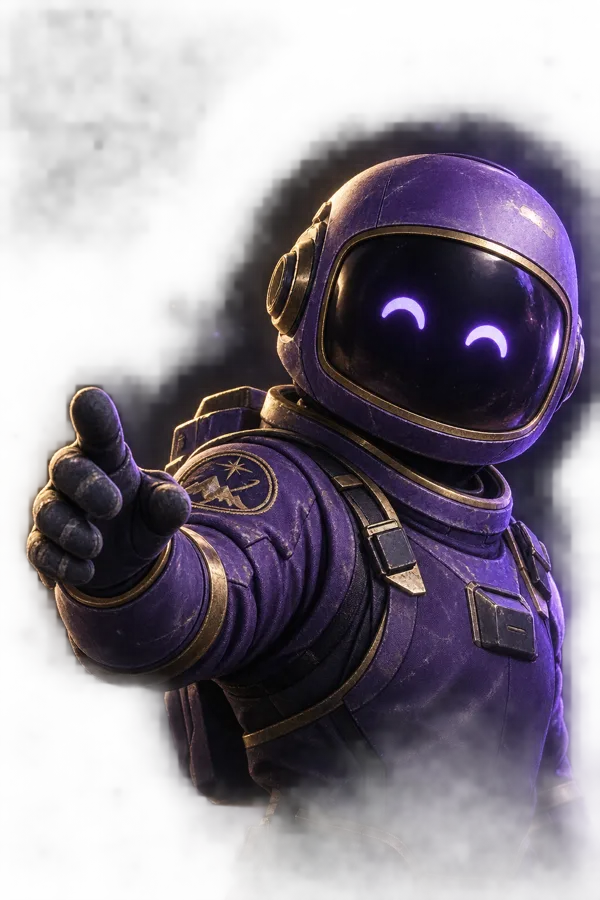
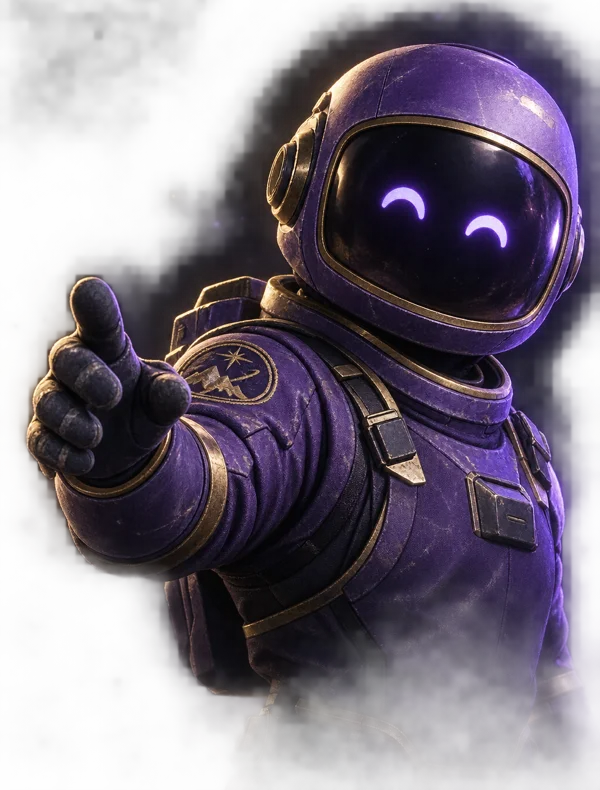
fix(single-player): re-crop the Journey source asset, not just the CSS
Feedback with a screenshot at a wider viewport than my testing width:
"looks terrible." Root-caused this time by reading pixel data instead
of guessing at another transform value — the previous two fixes only
ever looked right at the one browser width I happened to test each
time, because percentage-based object-position/translate on
object-fit:cover is inherently sensitive to the box's aspect ratio, and
that ratio changes as the fluid grid resizes. Fritz/Ghost don't have
this problem because their SOURCE images are already tightly cropped
around the character (verified: fritzghost2.png is nearly edge-to-edge,
aspect 0.78) — Journey's source had ~110px of pure black margin above
the helmet and an aspect ratio (0.667) further from square, making any
crop far more sensitive to small width changes.

Fix at the actual source this time: cropped fritzjourney.png/.webp
(590x900 → 600x790, dropping the empty margin above the helmet) so its
aspect ratio (0.76) now closely matches fritzghost2.png's (0.78).
With that, the same object-position/scale/translate values Ghost
already uses (center top, scale(1.3), translate(5%, 2%)) transfer
almost directly — no more per-card guesswork.

Verified this time at BOTH ~1000px and ~1512px CSS viewport widths
(resized browser windows, not one snapshot) before calling it done —
full connected figure, matching Fritz/Ghost's scale, no vanishing, no
gap between head and hand at either width.
[…]

diff --git a/client/src/screens/SinglePlayerModes.css b/client/src/screens/SinglePlayerModes.css
@@ -107,7 +107,7 @@
 
 .journey-card-container .sp-solo-mode-card__art {
   object-position: center top;
-  transform: scale(1.9) translate(-10%, 3%);
+  transform: scale(1.3) translate(5%, 2%);
 }
 
 .journey-card-container {
